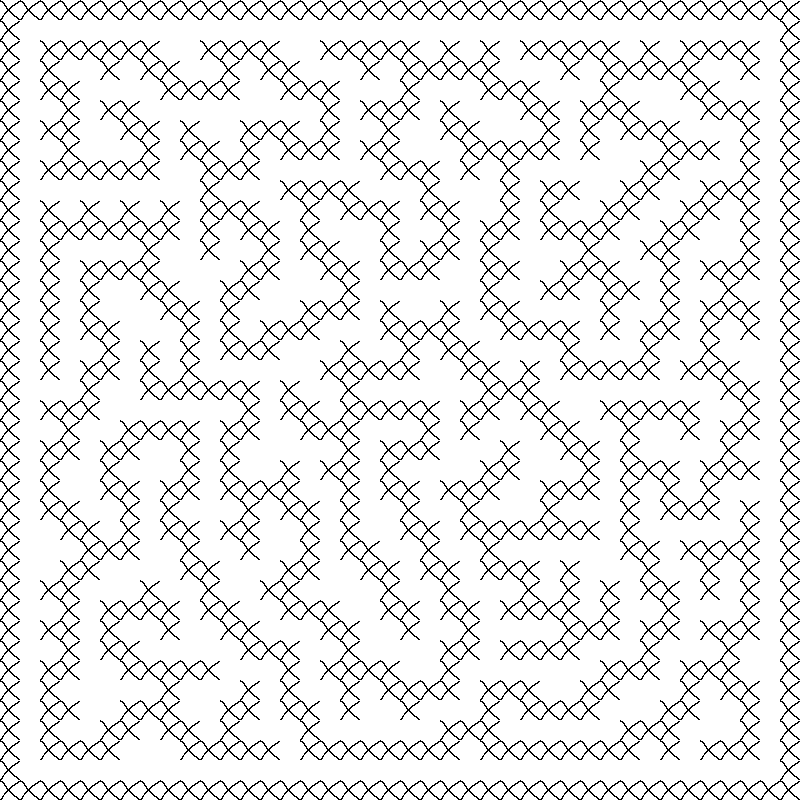
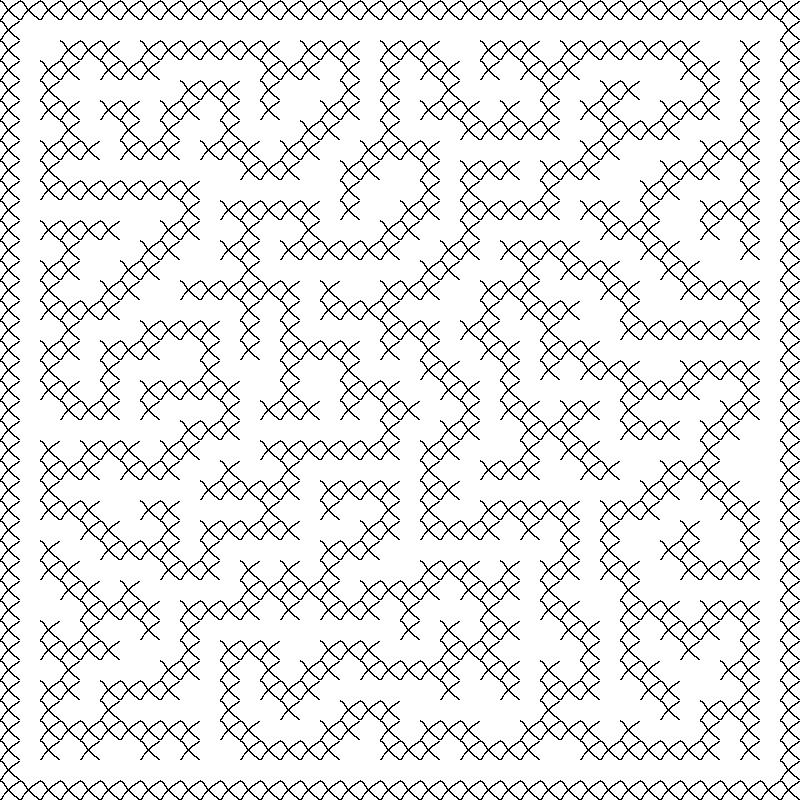
Board as player done

diff --git a/src/Generator/Draw.java b/src/Generator/Draw.java
@@ -21,21 +21,17 @@ public class Draw extends Applet implements Runnable, KeyListener {
 	public static final int xMapSize = 40;
 	public static final int yMapSize = 40;
 	public static final int blockSize = 20;
-	
+
 	private int[][] maze;
 
-
-	
 	
 	private Graphics second;
 	private Image image;
-	private URL base;
 	private Gen mazec; // glowny obiekt labiryntu
 	private Player player;
 	private MapDraw drawer;
 	private BufferedImage board;
-	
-	private int[][] shadow;
+
 	
 
 	@Override
@@ -52,17 +48,13 @@ public class Draw extends Applet implements Runnable, KeyListener {
 			e1.printStackTrace();
 		}
 		board=drawer.getMap();
-		setSize(500, 500); // rozmiar ekranu
+		//setSize(500, 500); // rozmiar ekranu
 
 		setSize(xMapSize*blockSize, yMapSize*blockSize); // rozmiar ekranu
 
 		setBackground(Color.BLACK);
 		setFocusable(true); // nie wiem
-		try {
-			base = getDocumentBase();
-		} catch (Exception e) {
 
-		}
 		Frame frame = (Frame) this.getParent().getParent();
 		frame.setTitle("Maze draw");
 
@@ -91,9 +83,7 @@ public class Draw extends Applet implements Runnable, KeyListener {
 					
 				if (mazec.maze[i][j] == 1) {
 
-					g.fillRect(i*blockSize,j *blockSize , blockSize, blockSize); // rysuje sciezke sciezke// wspolrzedna x,y *10, rozmiar 10/10
-
-					g.fillRect(i*blockSize ,j *blockSize , blockSize, blockSize); // rysuje sciezke sciezke// wspolrzedna x,y *10, rozmiar 10/10
+					//g.fillRect(i*blockSize,j *blockSize , blockSize, blockSize); // rysuje sciezke sciezke// wspolrzedna x,y *10, rozmiar 10/10
 
 				} else {
 					g.setColor(Color.BLACK);// kolor czarny
@@ -103,8 +93,8 @@ public class Draw extends Applet implements Runnable, KeyListener {
 		}
 		
 		g.setColor(new Color(255, 0, 0)); //set color to red (r, g, b) 
-		g.drawImage(board, 0, 0, this);
-		g.fillRect(player.getPosX(), player.getPosY(), blockSize, blockSize);
+		g.drawImage(board,-player.getPosX()+2*blockSize, -player.getPosY()+2*blockSize, this);
+		g.fillRect(2*blockSize, 2*blockSize, blockSize, blockSize);
 		// super.paint(g);
 	}
 
@@ -136,15 +126,15 @@ public class Draw extends Applet implements Runnable, KeyListener {
 
 		switch (e.getKeyCode()) {
 		case KeyEvent.VK_UP:	
-			System.out.println("posY:");
+			//System.out.println("posY:");
 
-			System.out.println(player.getPosY()/10-1);
+			//System.out.println(player.getPosY()/10-1);
 			//System.out.println("maze:");
-			System.out.println(maze[player.getPosX()/10][player.getPosY()/10-1]);
+			//System.out.println(maze[player.getPosX()/10][player.getPosY()/10-1]);
 
-			System.out.println(player.getPosY()/blockSize-1);
+			//System.out.println(player.getPosY()/blockSize-1);
 			//System.out.println("maze:");
-			System.out.println(maze[player.getPosX()/blockSize][player.getPosY()/blockSize-1]);
+			//System.out.println(maze[player.getPosX()/blockSize][player.getPosY()/blockSize-1]);
 
 			if(maze[player.getPosX()/blockSize][player.getPosY()/blockSize-1] == 1 && player.getPosY()-blockSize>=0){
 				player.moveUp(blockSize);
